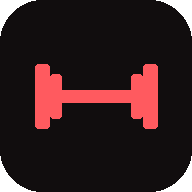
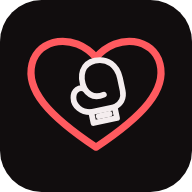
Novo ícone: luva de boxe dentro de um coração
Claude-Session: https://claude.ai/code/session_01WTJ7pW5ukfkLtfk6ZwxXYC

diff --git a/sw.js b/sw.js
@@ -1,4 +1,4 @@
-const CACHE='treino-v2';
+const CACHE='treino-v3';
 const ASSETS=['./','index.html','manifest.webmanifest','icon-192.png','icon-512.png','apple-touch-icon.png'];
 self.addEventListener('install',e=>{e.waitUntil(caches.open(CACHE).then(c=>c.addAll(ASSETS)));self.skipWaiting()});
 self.addEventListener('activate',e=>{e.waitUntil(caches.keys().then(ks=>Promise.all(ks.filter(k=>k!==CACHE).map(k=>caches.delete(k)))));self.clients.claim()});
